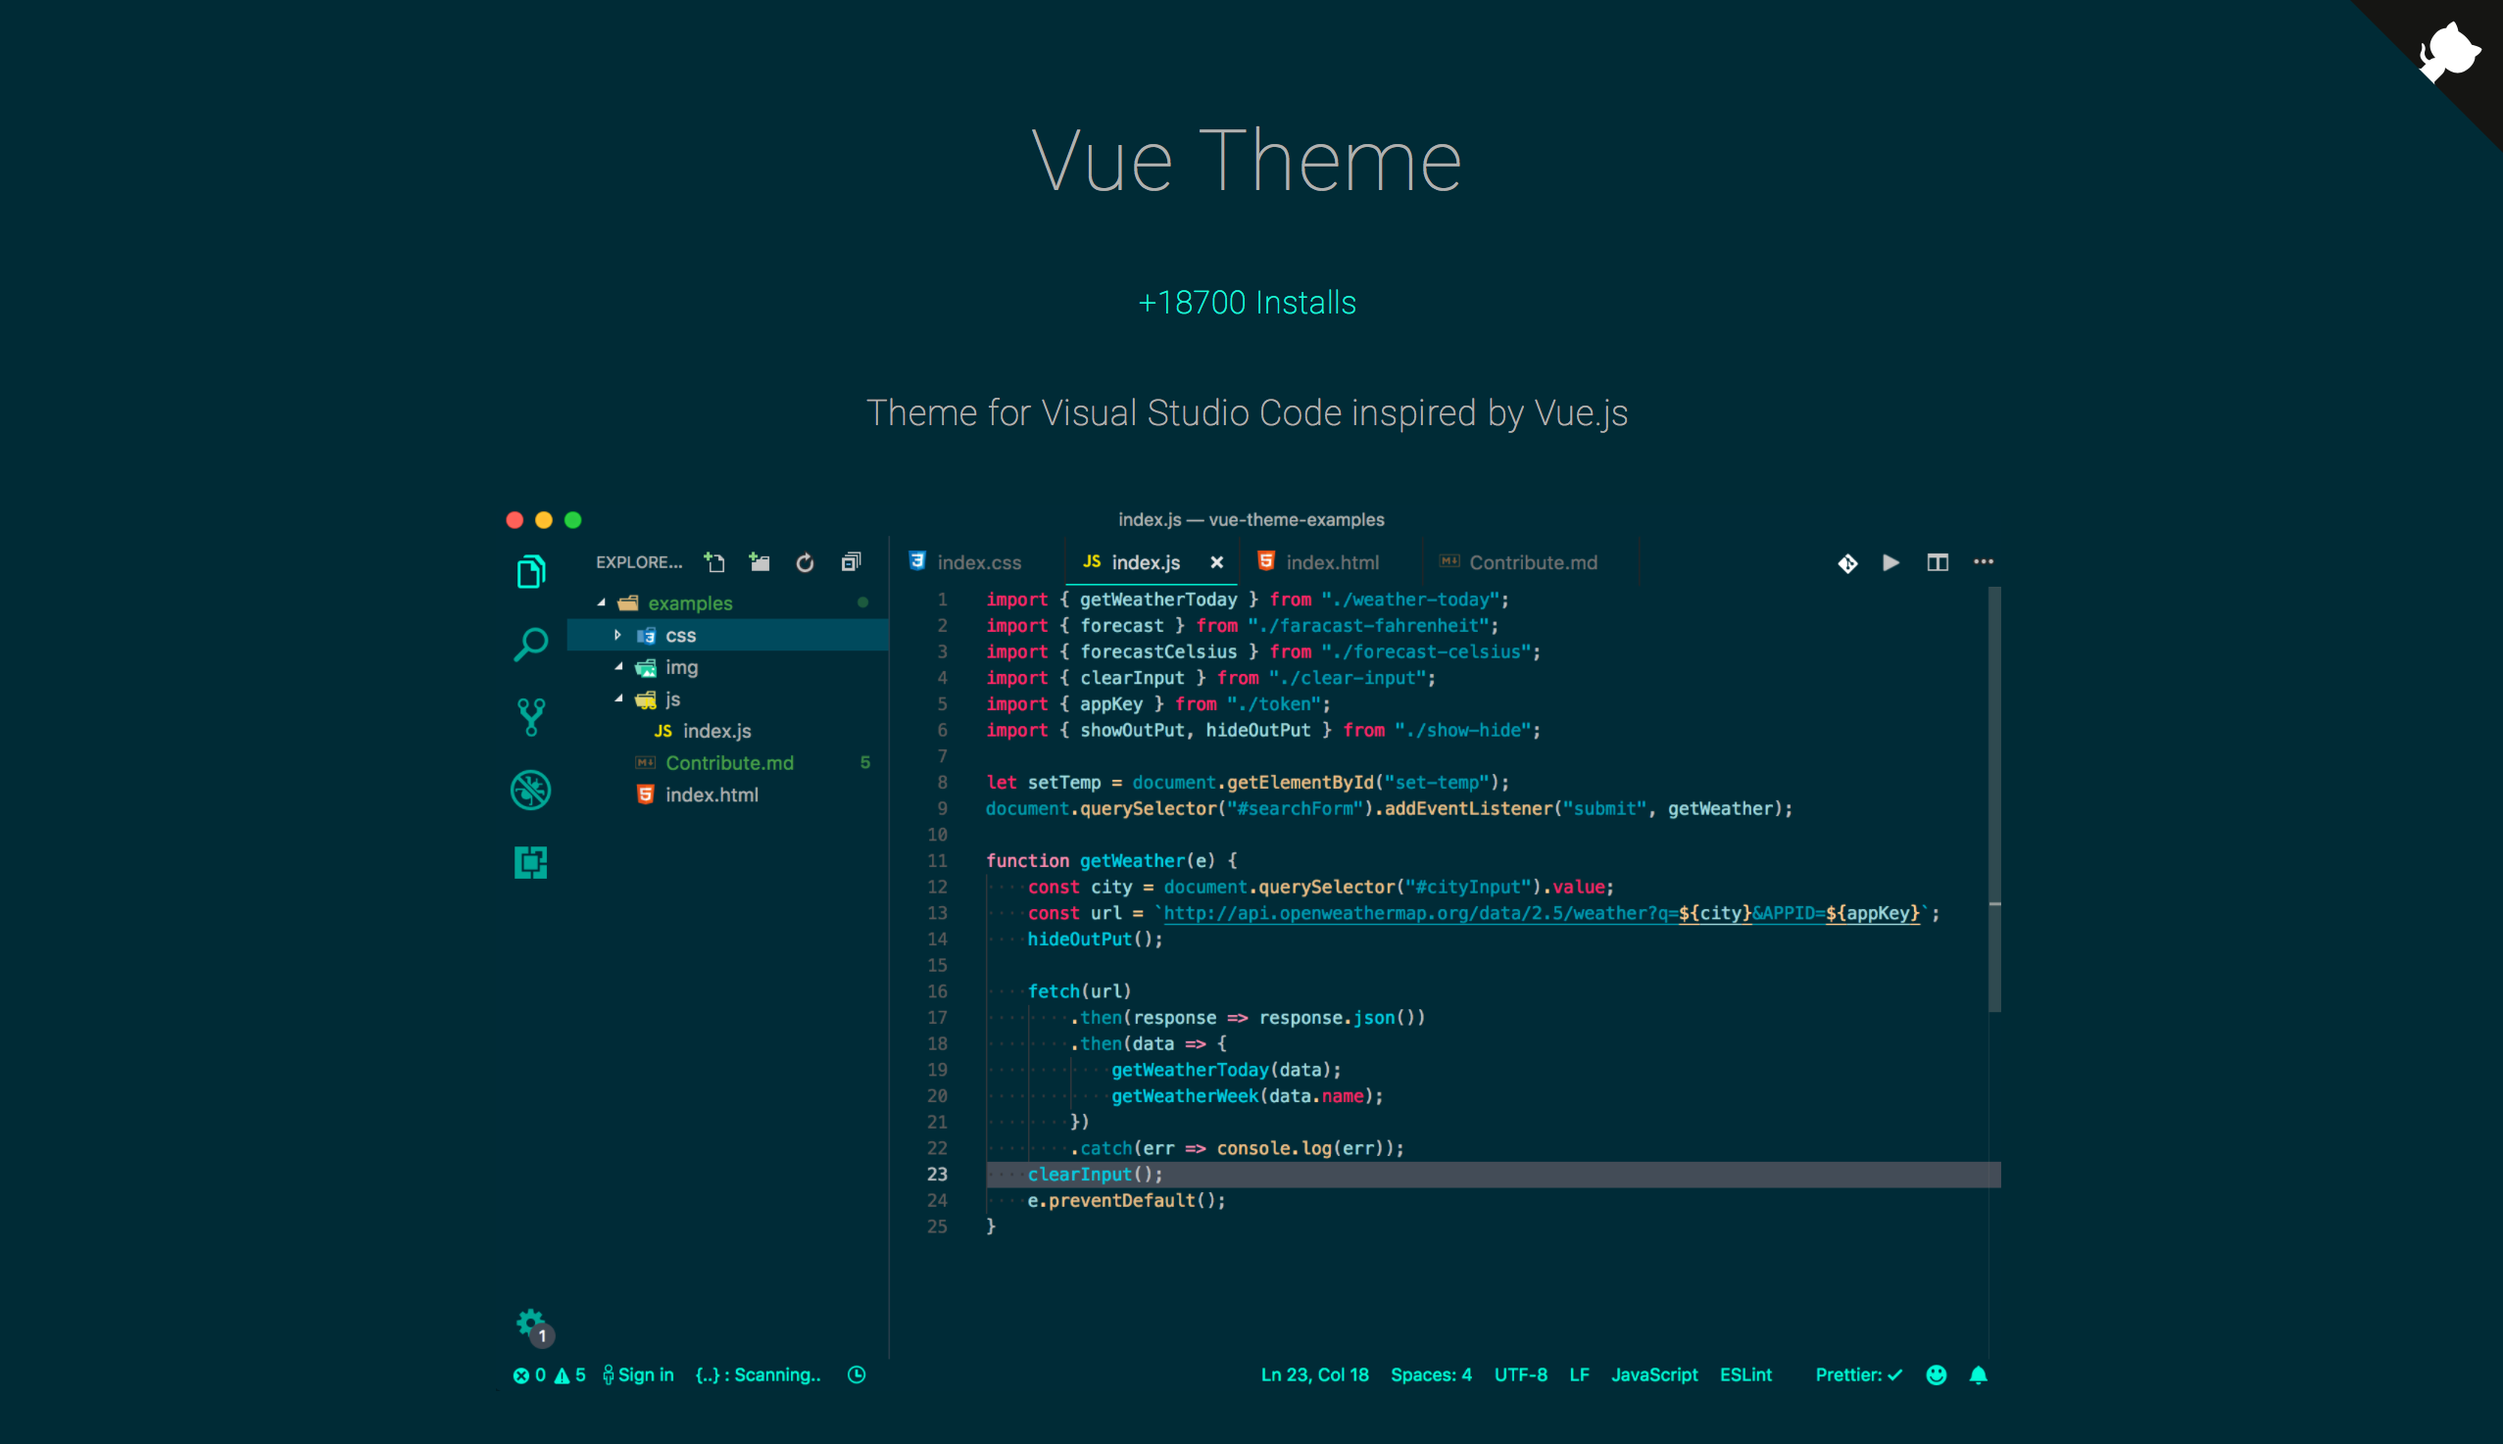
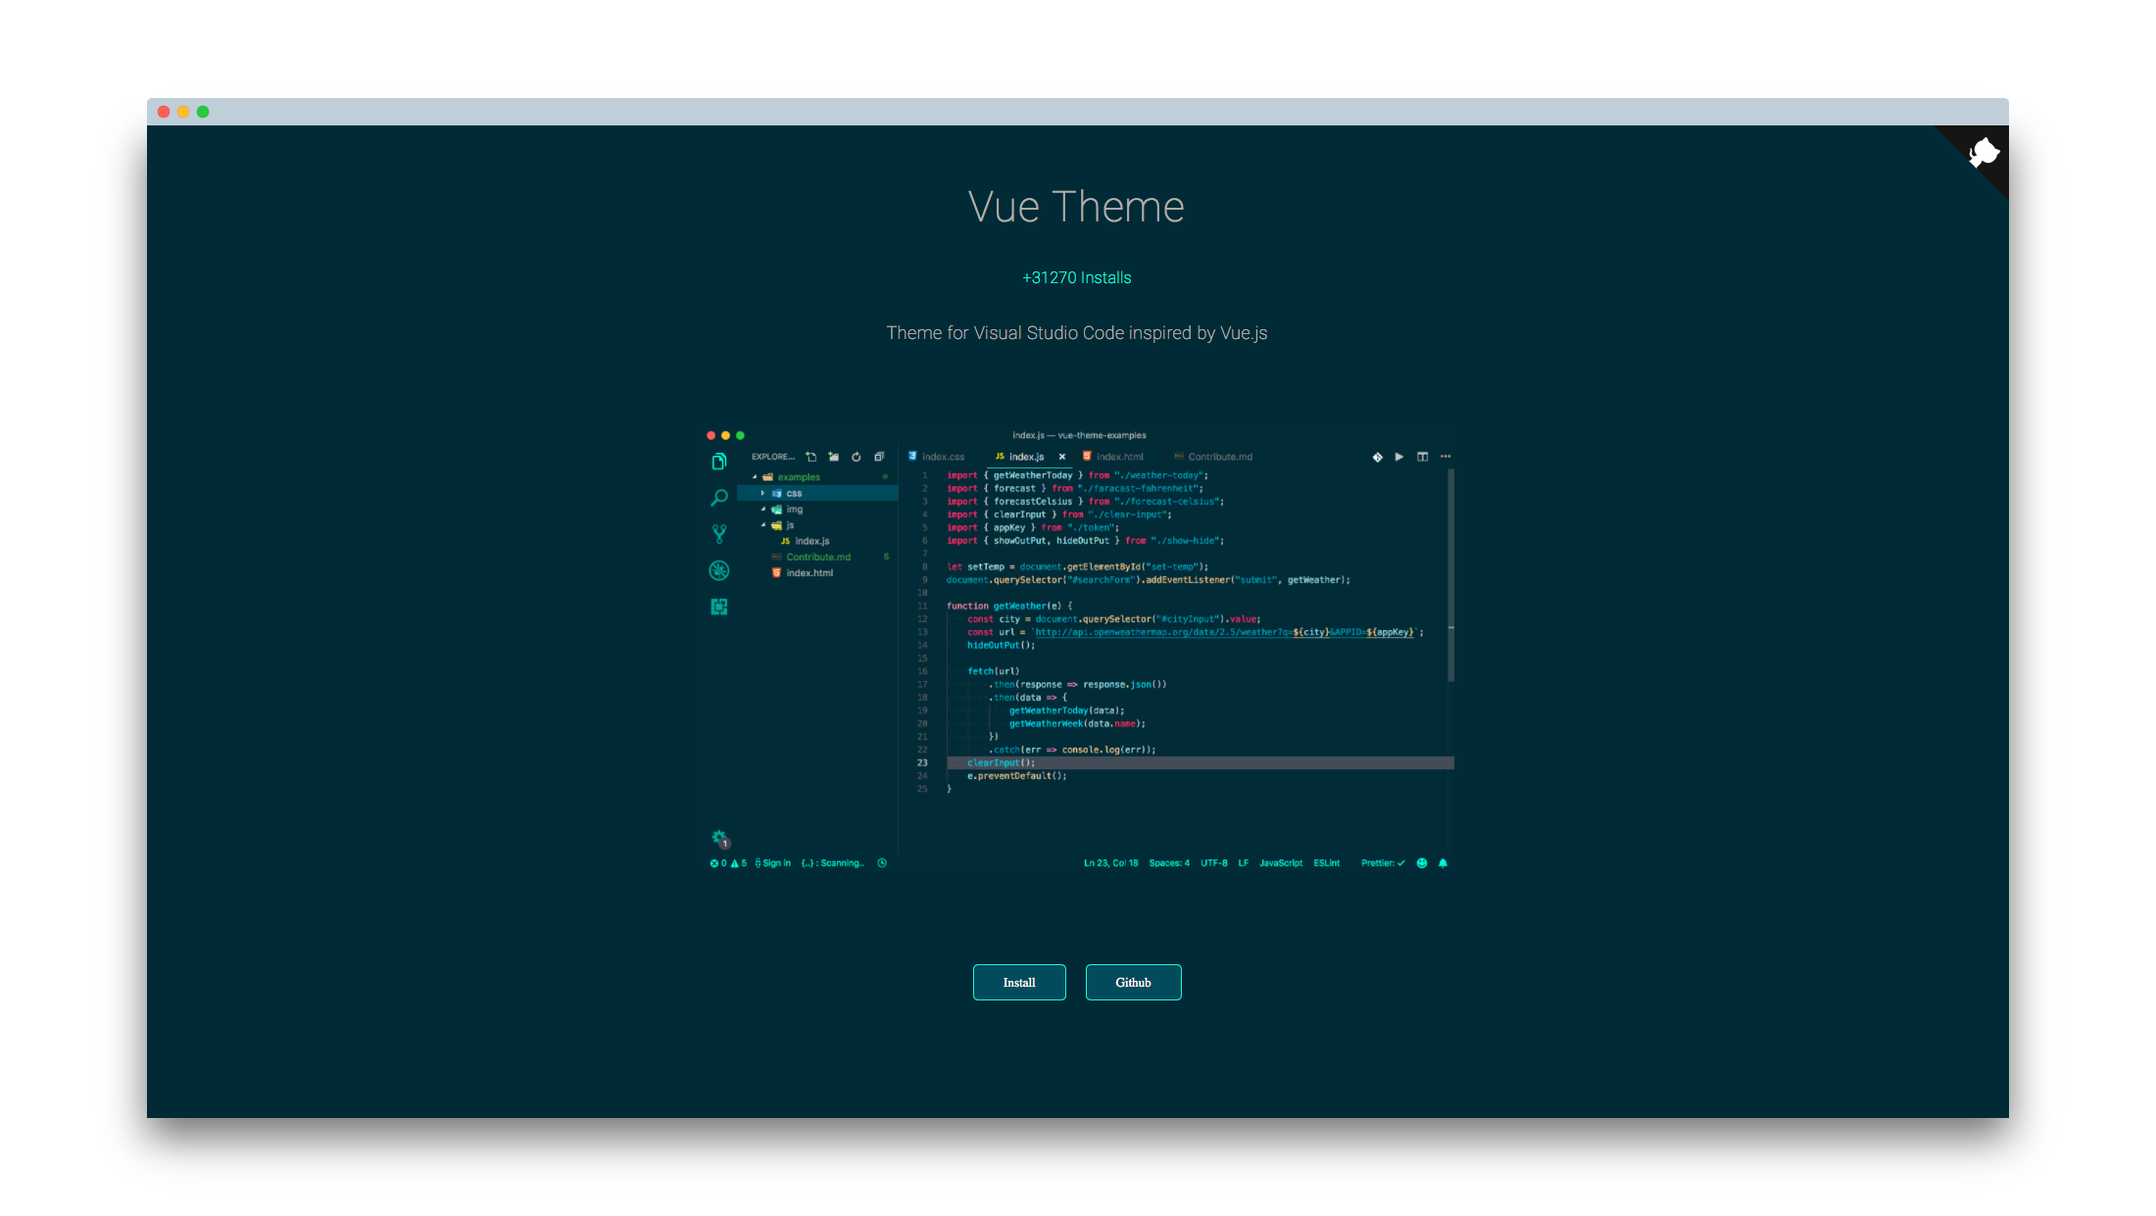
fixed js colors, add new image, changed home-page, edited cahngelog

diff --git a/CHANGELOG.md b/CHANGELOG.md
@@ -2,6 +2,13 @@
 
 All notable changes to this project will be documented in this file.
 
+## 1.1.1 - 2018-10-03
+
+- fixed const variable
+- fixed meta.brace.square.js
+- add new image
+- changed home-page
+
 ## 1.1.0 - 2018-08-24
 
 - Improvements Sass
